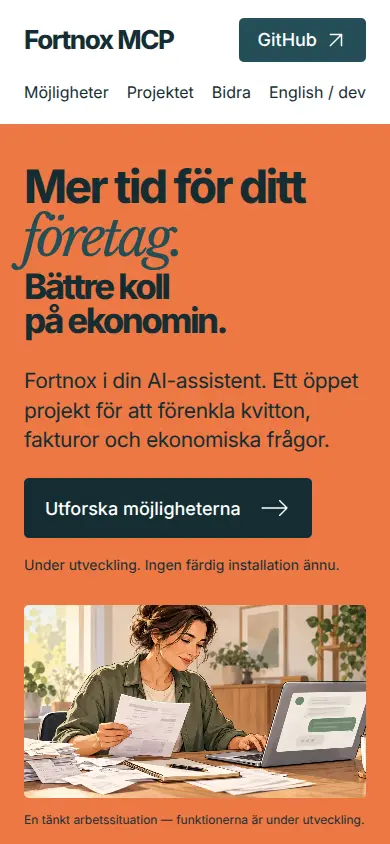
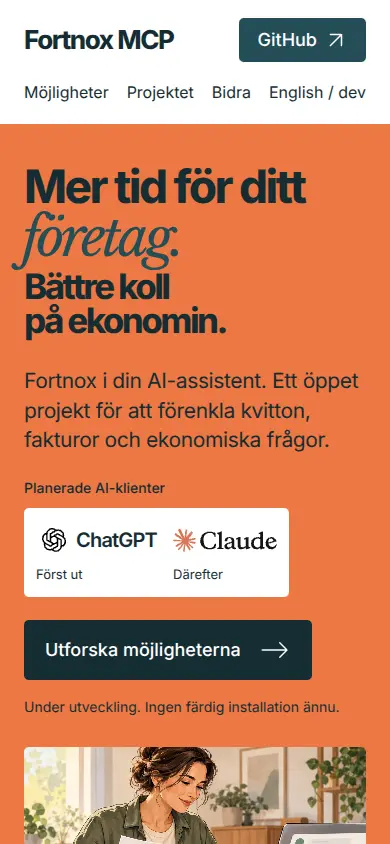
feat: show planned ChatGPT and Claude clients in the opening viewport

diff --git a/site/styles.css b/site/styles.css
@@ -70,6 +70,15 @@ h1 > span, h1 > em { display: block; }
 h1 em { color: var(--petrol); font-size: 1.18em; letter-spacing: -.07em; line-height: 1.04; margin-left: -.035em; }
 .economy-line { font-size: .92em; white-space: nowrap; }
 .hero-description { padding-top: 13px; }
+.planned-clients { margin-top: 22px; }
+.planned-clients > p { font-size: 14px; font-weight: 500; }
+.client-list { display: flex; flex-wrap: wrap; gap: 24px 32px; width: fit-content; max-width: 100%; list-style: none; margin: 10px 0 0; padding: 12px 16px; background: var(--white); border-radius: 5px; }
+.client-list li { min-width: 136px; }
+.client-brand { min-height: 48px; display: flex; align-items: center; gap: 8px; }
+.client-brand span { font-size: 23px; font-weight: 600; letter-spacing: -.04em; }
+.chatgpt-symbol { width: 48px; height: 48px; }
+.claude-logo { width: 128px; height: auto; }
+.client-list li > p { margin-top: 5px; font-size: 13px; }
 .hero-description .button { margin-top: 30px; }
 .hero-status { margin-top: 16px; font-size: 16px; }
 .hero-figure img { width: 100%; height: auto; aspect-ratio: 3.25; object-fit: cover; object-position: center 48%; border-radius: 5px; }
@@ -117,6 +126,8 @@ figcaption { margin-top: 13px; font-size: 14px; }
 .footer-inner { display: flex; align-items: center; justify-content: space-between; gap: 30px; }
 .site-footer .wordmark { font-size: 25px; }
 .site-footer p { margin-top: 6px; font-size: 15px; }
+.site-footer p:last-child { max-width: 62ch; }
+.site-footer .footer-inner > div { flex: 1; }
 .site-footer nav a { font-size: 16px; }
 
 @media (min-width: 1700px) {
@@ -182,6 +193,23 @@ figcaption { margin-top: 13px; font-size: 14px; }
   .footer-inner { flex-direction: column; align-items: flex-start; gap: 18px; }
   .site-footer nav { flex-wrap: wrap; gap: 12px 24px; }
   .site-footer p { font-size: 14px; }
+}
+
+@media (max-width: 600px) {
+  .client-list { gap: 16px; padding: 12px; }
+  .client-list li { min-width: 0; }
+  .client-brand { min-height: 40px; gap: 4px; }
+  .client-brand span { font-size: 20px; }
+  .chatgpt-symbol { width: 36px; height: 36px; }
+  .claude-logo { width: 104px; }
+}
+
+@media (max-width: 380px) {
+  .header-inner { column-gap: 8px; }
+  .wordmark { font-size: 22px; }
+  .header-github { font-size: 16px; padding-inline: 12px; }
+  .header-inner nav a { font-size: 14px; }
+  h1 { font-size: 40px; }
 }
 
 @media (prefers-reduced-motion: reduce) {

diff --git a/index.html b/index.html
@@ -40,6 +40,19 @@
             <h1 id="hero-title"><span>Mer tid för ditt</span> <em>företag.</em> <span class="economy-line">Bättre koll på ekonomin.</span></h1>
             <div class="hero-description">
               <p class="lead">Fortnox i din AI-assistent. Ett öppet projekt för att förenkla kvitton, fakturor och ekonomiska frågor.</p>
+              <div class="planned-clients" aria-labelledby="planned-clients-title">
+                <p id="planned-clients-title">Planerade AI-klienter</p>
+                <ul class="client-list">
+                  <li>
+                    <div class="client-brand"><img class="chatgpt-symbol" src="./site/brands/chatgpt.svg" width="48" height="48" alt=""><span>ChatGPT</span></div>
+                    <p>Först ut</p>
+                  </li>
+                  <li>
+                    <div class="client-brand"><img class="claude-logo" src="./site/brands/claude.svg" width="128" height="28" alt="Claude"></div>
+                    <p>Därefter</p>
+                  </li>
+                </ul>
+              </div>
               <a class="button button-ink" href="#mojligheter">
                 Utforska möjligheterna
                 <svg class="icon icon-long" viewBox="0 0 32 24" fill="none" stroke="currentColor" stroke-width="1.6" aria-hidden="true"><path d="M2 12h27M21 4l8 8-8 8"/></svg>
@@ -153,6 +166,7 @@
         <div>
           <a class="wordmark" href="./">Fortnox MCP</a>
           <p>Ett självständigt projekt. Ingen officiell Fortnox-produkt.</p>
+          <p>ChatGPT och dess symbol tillhör OpenAI. Claude-logotypen tillhör Anthropic. Inget partnerskap eller godkännande från dessa företag påstås.</p>
         </div>
         <nav aria-label="Projektlänkar">
           <a href="https://github.com/alex-engvall/fortnox-mcp">GitHub <svg class="icon" viewBox="0 0 24 24" fill="none" stroke="currentColor" stroke-width="1.6" aria-hidden="true"><path d="M6 18 18 6M6 6h12v12"/></svg></a>

diff --git a/docs/website.md b/docs/website.md
@@ -7,6 +7,7 @@ Scope: the owner-requested Swedish public project website and repository introdu
 - `index.html`: Swedish public copy, semantic sections, navigation and links to the project.
 - `site/styles.css`: design tokens, responsive layout and reduced-motion handling.
 - `site/main.js`: progressive enhancement for copying the source-clone command.
+- `site/brands/`: unmodified official client marks, subject to their owners' terms rather than AGPL.
 - `.nojekyll`: serve the repository as static files without a Jekyll transformation.
 - `README.md`: concise Swedish repository introduction, with website and developer links.
 - `README.en.md`: English contributor entry point.
@@ -17,6 +18,8 @@ There is no build step, package installation, external font request, analytics s
 Keep status copy in the website, READMEs and [documentation map](README.md) aligned. When implementation progresses, replace planned claims only with capabilities supported by release evidence. The browser illustration is not a product screenshot.
 
 ## Publish on GitHub Pages
+
+Before publishing the version with client logos, obtain Anthropic's required prior approval for the Claude mark and this material. No such approval is recorded in this repository. Keep the proposal unmerged until this is resolved, or remove that mark for publication. See [third-party notices](../THIRD_PARTY_NOTICES.md#client-marks). The preview and PR do not establish permission or endorsement.
 
 In repository **Settings → Pages → Build and deployment**, select **Deploy from a branch**, branch **main**, folder **/(root)**. Save the setting. Once this change is merged, `index.html` is the entry point at `https://alex-engvall.github.io/fortnox-mcp/`. Existing Pages settings may already be configured; this documentation change does not modify them.
 
@@ -67,6 +70,8 @@ Typography: locally served Inter for content and controls, with locally served L
 At 800px and below, the header navigation moves to a second row, major layouts stack and the source command wraps. The same information and English developer link remain available. Keyboard focus has a visible outline, the page has a skip link, copy feedback is announced, and reduced-motion preferences disable smooth scrolling.
 
 Intentional accessibility deviation from the opening concept: the italic heading word uses petrol instead of white because white on the orange background does not reach the minimum contrast for large text. The serif styling preserves its emphasis.
+
+Owner-requested addition: official ChatGPT/OpenAI symbol and Claude wordmark in the opening, with readable product names and the explicit label “Planerade AI-klienter”. ChatGPT is marked “Först ut” and Claude “Därefter”, consistent with D18; neither is presented as already supported. Both marks must remain fully visible before scrolling at the checked desktop and mobile sizes. Preserve their supplied artwork, proportions and clear space. Do not apply CSS filters, recolouring or decorative effects. This descriptive client list is separate from the project's identity; it is not a partner logo lockup.
 
 ## Rendered proposal previews
 

diff --git a/THIRD_PARTY_NOTICES.md b/THIRD_PARTY_NOTICES.md
@@ -25,4 +25,15 @@ The website bundles unmodified Latin WOFF2 font files from `@fontsource-variable
 
 Fortnox is used descriptively. This project is not an official Fortnox integration or an endorsement by Fortnox, OpenAI, Anthropic or Cloudflare. Do not use their logos without appropriate permission.
 
+### Client marks
+
+The website proposal contains the following unmodified official assets, retrieved on 2026-10-18. These marks and their associated rights belong to their respective owners; they are excluded from the project's AGPL grant. Their presence describes planned client targets, not a partnership, endorsement or completed integration.
+
+| Repository asset | Official source and original file | Owner and terms |
+| --- | --- | --- |
+| `site/brands/chatgpt.svg` | [OpenAI logo pack](https://cdn.openai.com/brand/OpenAI-Logos-2025.zip), `OpenAI-logos(new)/SVGs/OpenAI-black-monoblossom.svg` | OpenAI; [design guidelines and usage terms](https://openai.com/brand/). The supplied symbol accompanies the plain-text product name ChatGPT. |
+| `site/brands/claude.svg` | [Anthropic press kit](https://anthropic.com/press-kit), `Anthropic media resources/Anthropic logos/Claude logos/1 Claude logo/SVG/Claude logo - Slate.svg` | Anthropic, PBC; [trademark guidelines](https://www.anthropic.com/legal/trademark-guidelines). |
+
+Anthropic's published guidelines require prior approval of the materials using its marks. This repository records no such approval: resolve it before merging/publishing this proposal, or omit the Claude mark from the published page. Download availability is not proof of permission. Do not infer or transfer trademark rights from the repository's license. Preserve official artwork, spacing and proportions, and recheck current terms when changing its use.
+
 When implementation adds dependencies, record their versions and licenses in the lockfile and release SBOM. Verify compatibility with AGPL-3.0-only before distribution. Do not infer a dependency's license from the language or ecosystem.

diff --git a/docs/assets/README.md b/docs/assets/README.md
@@ -15,3 +15,5 @@ Use case: illustration-story. Asset type: panoramic GitHub README hero for an in
 The three images under `concepts/` are original AI-generated section concepts for the project website, retained as design references for this proposal. They are not product screenshots, implementation status evidence or runtime website assets. The production website uses the original `business-owner.webp` illustration and native HTML/CSS for every heading, link and control. See [website design and publishing](../website.md) for the design tokens and final generation prompts.
 
 `website-preview.webp` and `website-mobile-preview.webp` are screenshots of the implemented static website, captured with local Chromium/Playwright and converted to WebP for the repository. They document this website proposal; they do not depict a completed MCP product.
+
+The updated screenshots include official OpenAI/ChatGPT and Claude marks in the planned-client list. These third-party marks were not generated and are not licensed under the project's AGPL grant. Their sources, ownership, applicable guidelines and the outstanding Anthropic approval requirement are recorded in [third-party notices](../../THIRD_PARTY_NOTICES.md#client-marks).
